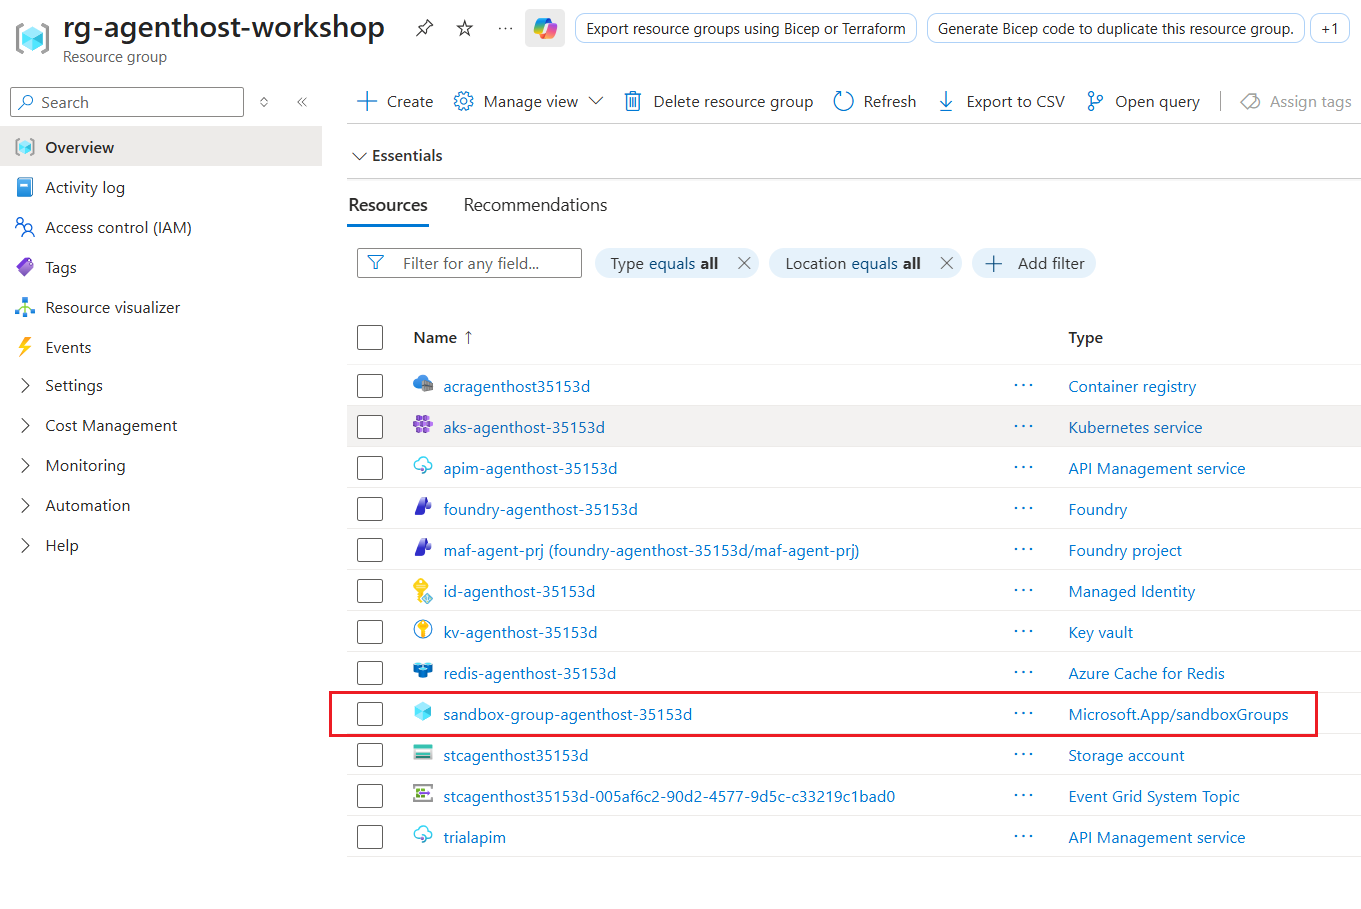
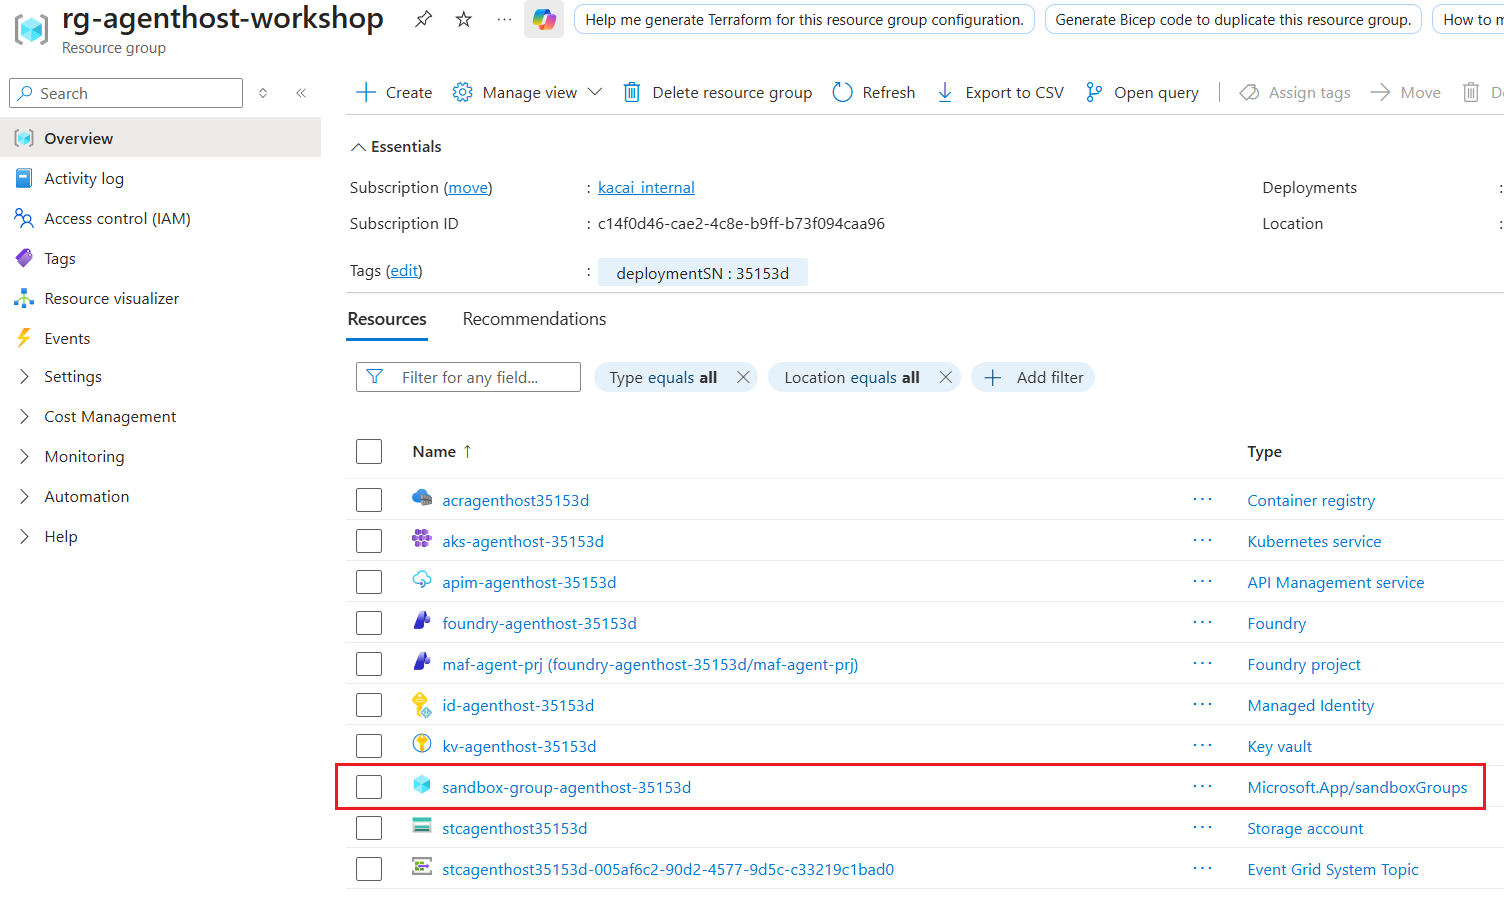
docs: Update solution comparison details in Module 5 README

diff --git a/agenthost/module-05/README.md b/agenthost/module-05/README.md
@@ -37,7 +37,7 @@ Recap the three solutions, provide decision guidance, and share cost optimisatio
 │    → Solution C (ACA Sandbox)                                   │
 │                                                                 │
 │  Maximum control, Micro-VM isolation, private networking?       │
-│    → Solution B (AKS + agent-sandbox)                             │
+│    → Solution B (AKS + agent-sandbox)                           │
 │                                                                 │
 │  One-time / short-lived code execution (e.g. code interpreter)? │
 │    → ACA Dynamic Sessions (not covered in depth, see note)      │